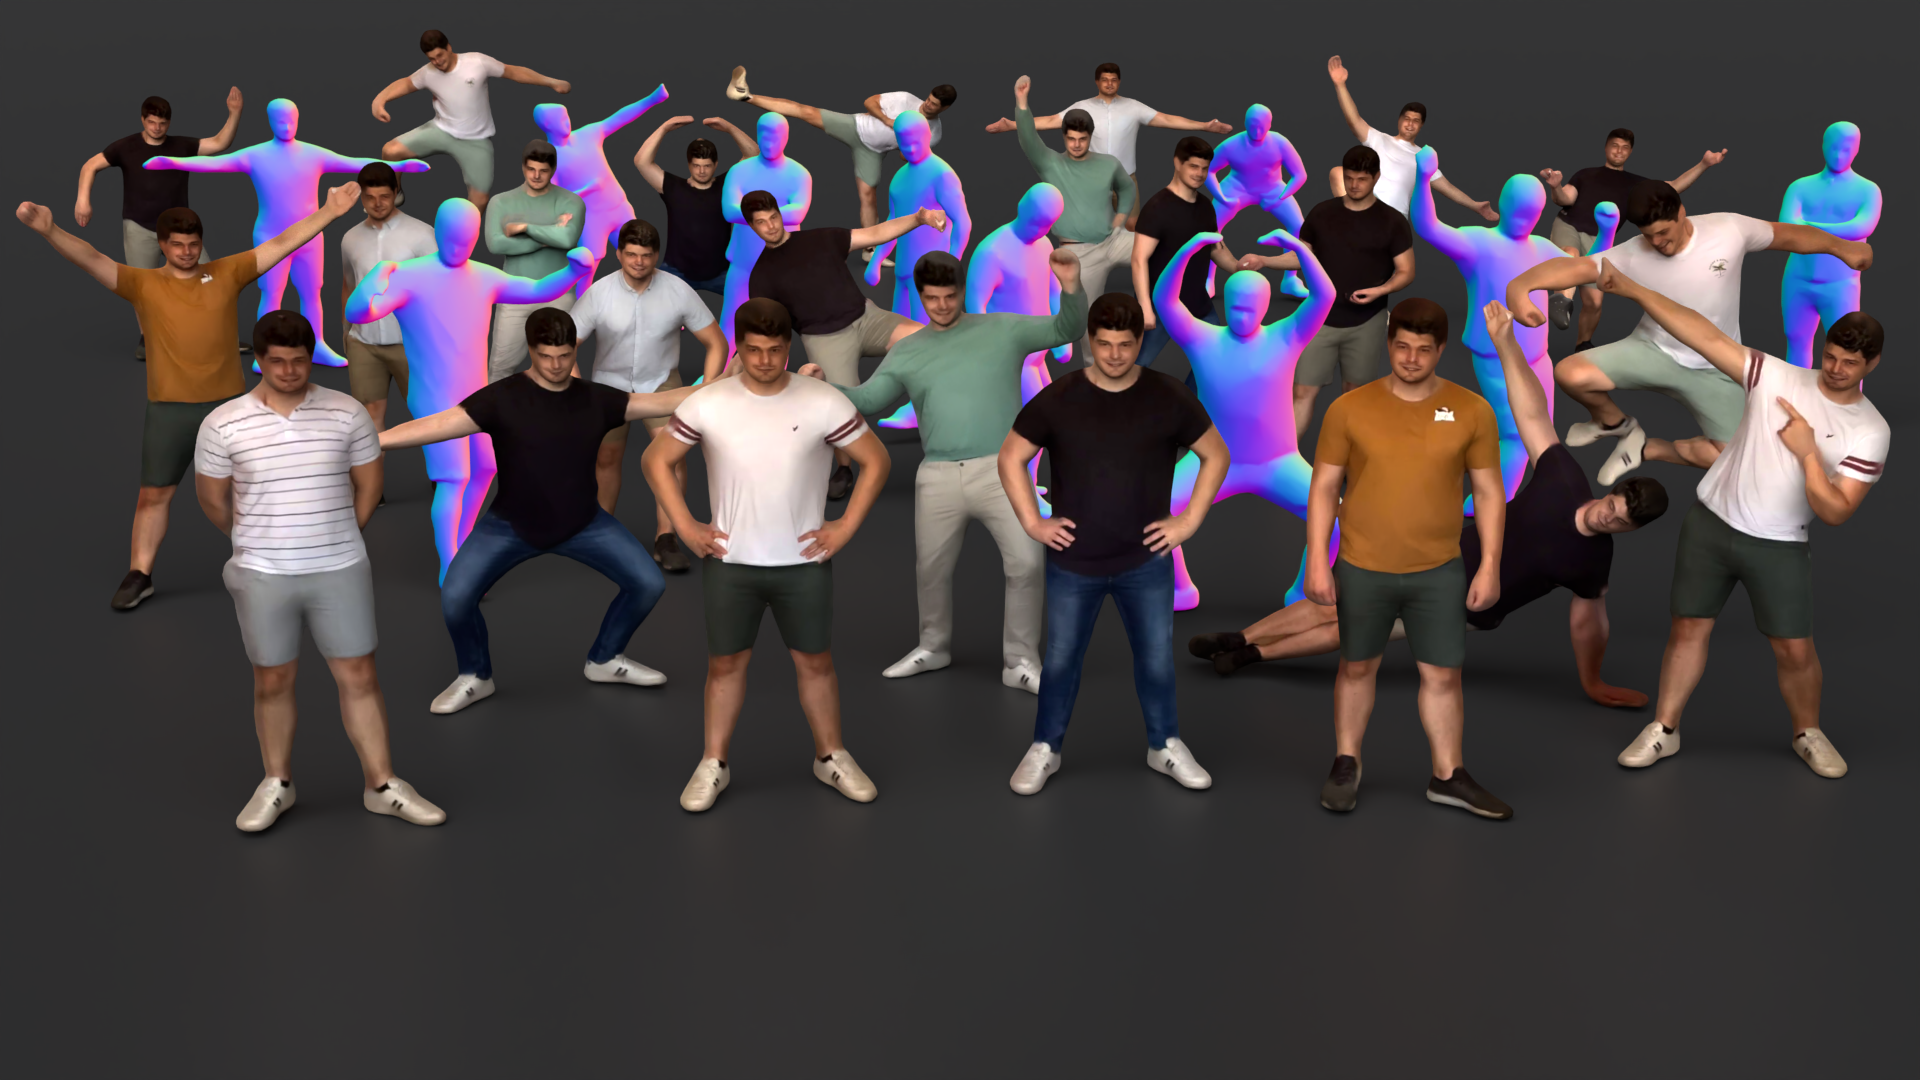
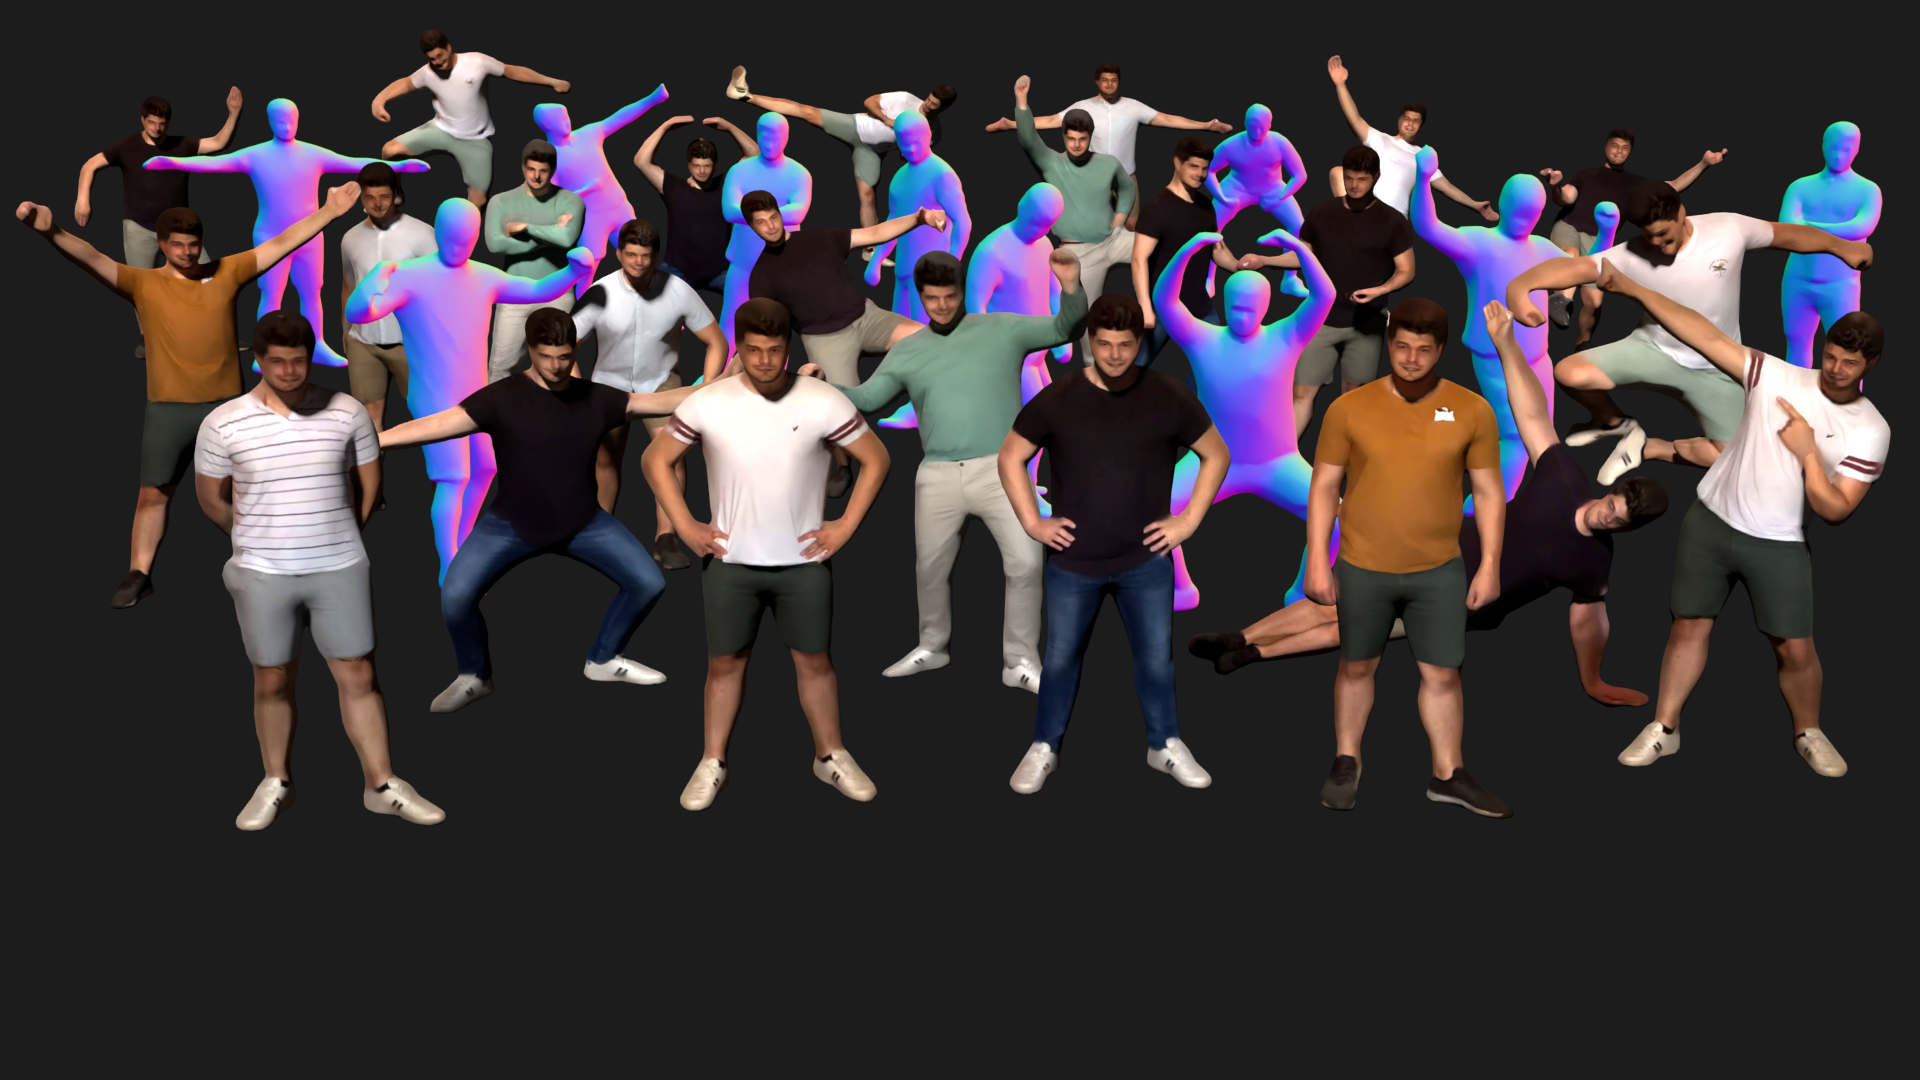
changed to darkmode. bright mode can be set in _config

diff --git a/docs/assets/css/dark_mode.scss b/docs/assets/css/dark_mode.scss
@@ -1,0 +1,95 @@
+---
+# this ensures Jekyll reads the file to be transformed into CSS later
+# only Main files contain this front matter, not partials.
+---
+
+@import "dark_mode";
+
+
+//---------------------------------
+// Tags
+//---------------------------------
+.tag:not(body) {
+  align-items: center;
+  background-color: hsl(205,14%,28%);
+  border-radius: 4px;
+  color: hsl(205,46.5%,73.5%);
+  display: inline-flex;
+  font-size: 0.75rem;
+  height: 2em;
+  justify-content: center;
+  line-height: 1.5;
+  padding-left: 0.75em;
+  padding-right: 0.75em;
+  white-space: nowrap;
+}
+
+.tag:not(body).is-success {
+  background-color: hsl(140,27.5%,48.5%);
+  color: $body-background-color;
+}
+
+.tag:not(body).is-success.is-light {
+  background-color: hsl(140,27.5%,48.5%);
+  color: $text;
+}
+
+.tag:not(body).is-info {
+  background-color: hsl(209,56%,43%);
+  color: $body-background-color;
+}
+
+.tag:not(body).is-info.is-light {
+  //background-color: $body-background-color;
+  background-color: hsl(209,56%,43%);
+  //color: hsl(206,100%,60%);
+  color: $text;
+}
+
+//---------------------------------
+// Text
+//---------------------------------
+.has-text-success {
+  color: hsl(140,27.5%,48.5%) !important;
+}
+
+//---------------------------------
+// Timeline marker
+//---------------------------------
+//.timeline-marker.is-success > svg{
+//  fill: hsl(140,27.5%,48.5%); 
+//  //color: $body-background-color;
+//}
+
+//.timeline-item:not(body).is-success {
+//  background-color: #48c78e;
+//  color: $body-background-color;
+//}
+
+
+//---------------------------------
+// stackoverflow links
+//---------------------------------
+#stackoverflow_rss_user a {
+	color: $text;
+}
+
+#stackoverflow_rss_user a:hover {
+	color: $link-hover;
+}
+
+#stackoverflow_rss_top_answers a {
+	color: $text;
+}
+
+#stackoverflow_rss_top_answers a:hover {
+	color: $link-hover;
+}
+
+#stackoverflow_rss_recent_answers a {
+	color: $text;
+}
+
+#stackoverflow_rss_recent_answers a:hover {
+	color: $link-hover;
+}

diff --git a/docs/_sass/dark_mode.scss b/docs/_sass/dark_mode.scss
@@ -1,0 +1,63 @@
+// This is a partial.
+// It lies in <source>/_sass, just waiting to be imported.
+// It does not contain the YAML front matter and has no corresponding output file in the built site.
+
+
+// Doc: https://bulma.io/documentation/customize/with-node-sass/ 
+
+
+// Test Code: 
+@charset "utf-8";
+
+
+// Set your brand colors
+$yellow-sascha: #FDC101;
+$link: $yellow-sascha;
+
+
+//-------
+// body
+//-------
+$body-background-color: #1c1c1d;
+
+//-------
+// text
+//-------
+$text: #e8e8e8;
+$text-strong: $text;
+$link-hover: #ff6c0c;
+
+
+//-------
+// footer
+//-------
+$footer-background-color: #2c3237;
+//$footer-background-color: hsl(205,14%,28%);
+
+//-------
+//box
+//-------
+$box-background-color: $body-background-color;
+//$box-background-color: $footer-background-color;
+$box-shadow: 0 2px 3px rgba(#e8e8e8, 0.1);
+
+//-------
+// button
+//-------
+$button-background-color: $body-background-color;
+$button-border-color: $button-background-color;
+$button-hover-color: $yellow-sascha;
+$button-hover-border-color: $button-background-color;
+
+//-------
+// navbar
+//-------
+$navbar-background-color: $body-background-color;
+$navbar-item-active-color: $yellow-sascha;
+$navbar-item-hover-color: $yellow-sascha;
+$navbar-item-hover-background-color: $navbar-background-color;
+
+
+
+// import complete bulma
+@import "mybulma/bulma/bulma.sass";

diff --git a/docs/index.html b/docs/index.html
@@ -70,7 +70,11 @@ title: Sascha Kirch
 			<img src="{{site.baseurl}}/assets/images/saschas.png">
 		</figure>-->
 		<figure class="image is-16by9">
-		<iframe class="has-ratio" src="https://blocks.glass/embed/2181?dropshadow=0" dropshadow="0" frameborder="0" height="100%" width="100%" allow="autoplay; encrypted-media; xr-spatial-tracking; accelerometer; gyroscope; magnetometer" allowfullscreen></iframe>
+		{% if site.mode == 'dark' %}
+		<iframe class="has-ratio" src="https://blocks.glass/embed/3477?dropshadow=0" dropshadow="0" frameborder="0" height="100%" width="100%" allow="autoplay; encrypted-media; xr-spatial-tracking; accelerometer; gyroscope; magnetometer" allowfullscreen mozallowfullscreen="true" webkitallowfullscreen="true" execution-while-out-of-viewport="true" execution-while-not-rendered="true"></iframe>
+		{% else %}
+		<iframe class="has-ratio" src="https://blocks.glass/embed/2181?dropshadow=0" dropshadow="0" frameborder="0" height="100%" width="100%" allow="autoplay; encrypted-media; xr-spatial-tracking; accelerometer; gyroscope; magnetometer" allowfullscreen mozallowfullscreen="true" webkitallowfullscreen="true" execution-while-out-of-viewport="true" execution-while-not-rendered="true"></iframe>
+		{% endif %}
 		</figure>
 	</div>
 </div>

diff --git a/docs/_layouts/default.html b/docs/_layouts/default.html
@@ -12,13 +12,17 @@
     <meta property="og:url" content="https://sascha-kirch.github.io/"/>
     <title>{{ page.title }}</title>
     <link rel="icon" href="{{site.baseurl}}/assets/images/me_circle.png">
-    <link rel="stylesheet" href="{{site.baseurl}}/assets/css/styles.scss"}}>
-    <link rel="stylesheet" href="https://cdn.jsdelivr.net/npm/bulma@0.9.3/css/bulma.min.css">
+    {% if site.mode == 'dark' %}
+    <link rel="stylesheet" href="{{site.baseurl}}/assets/css/dark_mode.css" id="mode">
+    {% else %}
+    <link rel="stylesheet" href="{{site.baseurl}}/assets/css/bright_mode.css" id="mode">
+    {% endif %}
     <link rel="stylesheet" href="https://cdn.jsdelivr.net/npm/bulma-timeline@3.0.5/dist/css/bulma-timeline.min.css">
     <link rel="stylesheet" href="https://cdn.rawgit.com/jpswalsh/academicons/master/css/academicons.min.css">
 
     <script defer src="https://use.fontawesome.com/releases/v5.11.0/js/all.js"></script>
     <script src="{{site.baseurl}}/assets/js/navbar-burger.js"></script>
+    <script src="{{site.baseurl}}/assets/js/set_dark_mode.js"></script>
     {% if site.google_analytics and jekyll.environment == 'production' %}
 	{% include analytics.html %}
 	{% endif %}

diff --git a/docs/_pages/conferences.html b/docs/_pages/conferences.html
@@ -25,7 +25,7 @@ nav_id: nav_conferences
 		  {% assign dateYear = date | date: "%Y" %}
 		  {% if itemDateYear < dateYear %}
 			  <header class="timeline-header">
-				<span class="tag {% if todaySet == true %} is-success {% else %} is-warning {% endif %}">{{date | date: "%Y"}}</span>
+				<span class="{% if todaySet == true %} is-success {% else %} is-warning {% endif %}">{{date | date: "%Y"}}</span>
 			  </header>
 			  {% assign date = item.date | date: "%s" %}
 		  {% endif %}
@@ -33,7 +33,7 @@ nav_id: nav_conferences
 		  {% assign itemDate = item.date | date: "%s" %}
 		  {% if currentDate > itemDate and todaySet == false %}
 			  <header class="timeline-header">
-				<span class="tag is-success">Today </span>
+				<span class="is-success">Today </span>
 			  </header>
 			  {% assign todaySet = true %}
 		  {% endif %}
@@ -54,7 +54,7 @@ nav_id: nav_conferences
 		  </div>
 	  {% endfor %}
 	  <header class="timeline-header">
-		<span class="tag is-medium is-success">Start PhD 2021</span>
+		<span class="is-medium is-success">Start PhD 2021</span>
 	  </header>
 	</div>
 </div>

diff --git a/docs/_includes/footer.html b/docs/_includes/footer.html
@@ -9,7 +9,7 @@
         <a href="https://bulma.io/">bulma</a>.
         <br>
         Source Code: <a href="https://github.com/sascha-kirch/sascha-kirch.github.io">Github Repo</a>.
-        <br>.
+        <br>
         Last Build: {{ site.time | date: '%B %d, %Y' }}
         <br>
         Creative Commons License 
@@ -19,6 +19,14 @@
           <i class="fab fa-creative-commons-nc fa-{{ include.icon-size }}" aria-hidden="true"></i>
           <i class="fab fa-creative-commons-sa fa-{{ include.icon-size }}" aria-hidden="true"></i>
         </a>
+        <!--<br>
+        Dark Mode: 
+        <a onclick="changeCSS('{{site.baseurl}}/assets/css/dark_mode.css');">
+			<i class="fas fa-moon fa-{{ include.icon-size }}" aria-hidden="true"></i>
+		</a> |
+		<a onclick="changeCSS('{{site.baseurl}}/assets/css/bright_mode.css');">
+			<i class="fas fa-sun fa-{{ include.icon-size }}" aria-hidden="true"></i>
+		</a>-->
         </p>
       </div>
     </div>

diff --git a/docs/_sass/bright_mode.scss b/docs/_sass/bright_mode.scss
@@ -1,0 +1,28 @@
+// This is a partial.
+// It lies in <source>/_sass, just waiting to be imported.
+// It does not contain the YAML front matter and has no corresponding output file in the built site.
+
+
+
+
+// Doc: https://bulma.io/documentation/customize/with-node-sass/ 
+
+
+// Test Code: 
+@charset "utf-8";
+
+//-------
+// body
+//-------
+$body-background-color: white;
+
+//-------
+// button
+//-------
+$button-background-color: $body-background-color;
+$button-border-color: $button-background-color;
+$button-hover-border-color: $button-background-color;
+
+
+// import complete bulma
+@import "mybulma/bulma/bulma.sass";

diff --git a/docs/assets/js/rss_stackoverflow.js b/docs/assets/js/rss_stackoverflow.js
@@ -37,7 +37,7 @@ function updateStackoverflowTopAnswers(){
 	for(const answer of responseObj.items){
 		let object_string = ""
 		
-		tag_score_color = "is-light"
+		tag_score_color = ""
 		if (answer.is_accepted){
 			tag_score_color = "is-success"
 		}
@@ -95,7 +95,7 @@ function updateStackoverflowRecentAnswers(){
 	for(const answer of responseObj.items){
 		let object_string = ""
 		
-		tag_score_color = "is-light"
+		tag_score_color = ""
 		if (answer.is_accepted){
 			tag_score_color = "is-success"
 		}

diff --git a/docs/assets/js/set_dark_mode.js b/docs/assets/js/set_dark_mode.js
@@ -1,0 +1,12 @@
+function changeCSS(cssFile) {
+
+    var oldlink = document.getElementById("mode");
+
+	oldlink.setAttribute("href", cssFile);
+    //var newlink = document.createElement("link");
+    //newlink.setAttribute("rel", "stylesheet");
+    //newlink.setAttribute("type", "text/css");
+    //newlink.setAttribute("href", cssFile);
+
+    //document.getElementsByTagName("head").item(cssLinkIndex).replaceChild(newlink, oldlink);
+}

diff --git a/docs/_includes/navigation.html b/docs/_includes/navigation.html
@@ -32,7 +32,7 @@
       <div class="navbar-end">
     		<div class="navbar-item">
     		  {% for item in site.data.social %}
-    			<a class="button is-white" href="{{ item.link }}" target="_blank">
+    			<a class="button" href="{{ item.link }}" target="_blank">
     			  <i class="{{ item.icon.type }} {{ item.icon.name }} {{ item.icon.source }}-{{ include.icon-size }}" aria-hidden="true">
                   </i>
     			</a>

diff --git a/docs/assets/css/bright_mode.scss b/docs/assets/css/bright_mode.scss
@@ -1,0 +1,6 @@
+---
+# this ensures Jekyll reads the file to be transformed into CSS later
+# only Main files contain this front matter, not partials.
+---
+
+@import "bright_mode";

diff --git a/docs/_about/about_bio.md b/docs/_about/about_bio.md
@@ -1,7 +1,7 @@
 ---
 title: Biography
 order: 1
-image: saschas.png
+image: saschas_dark.png
 ---
 I was born in 1993 in <a href="https://en.wikipedia.org/wiki/Baden-Baden" target="_blank">Baden-Baden</a>, southern Germany. 
 
